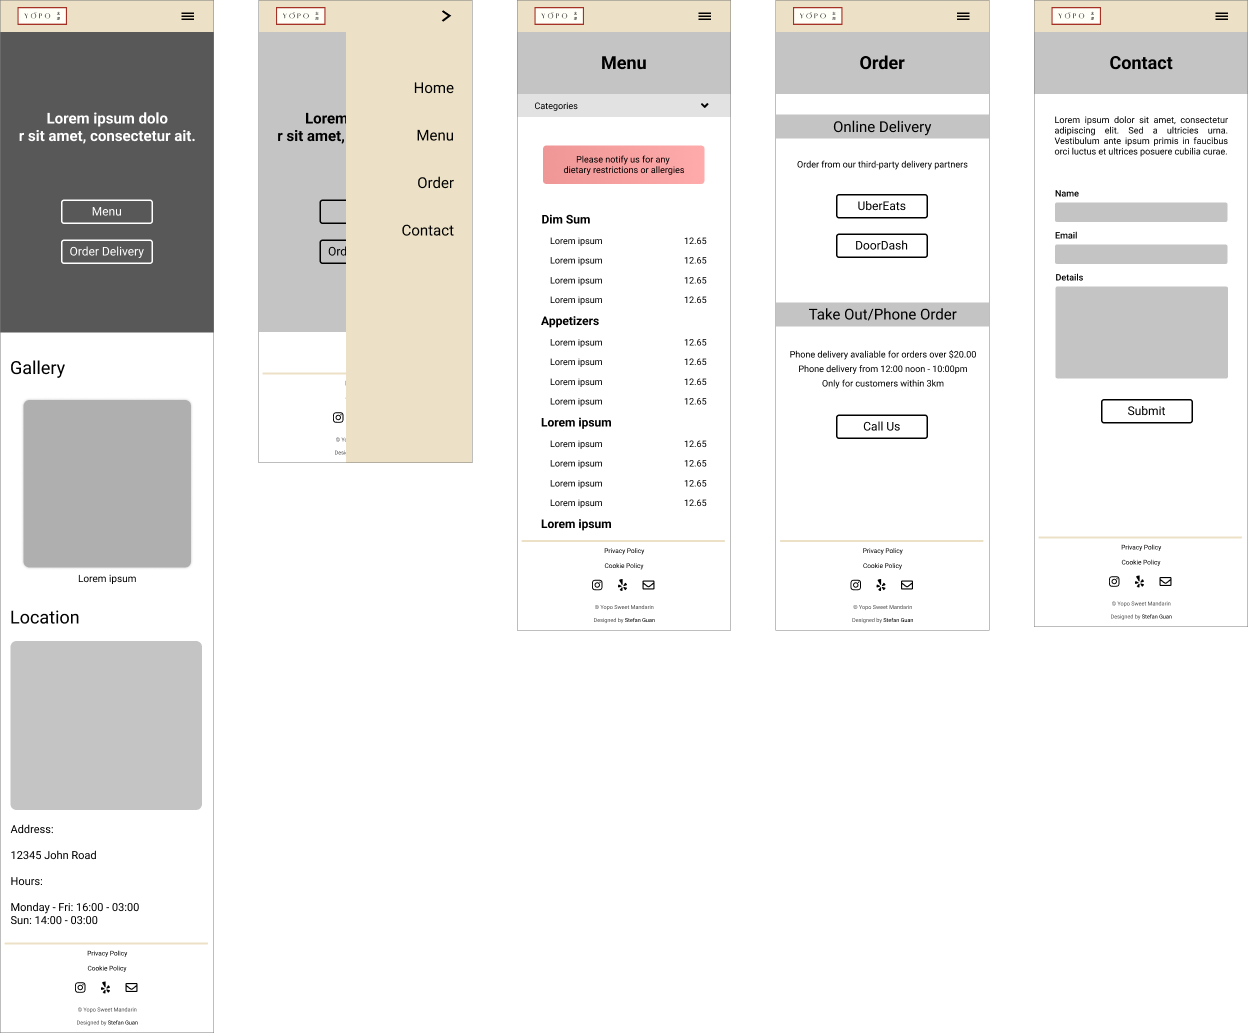
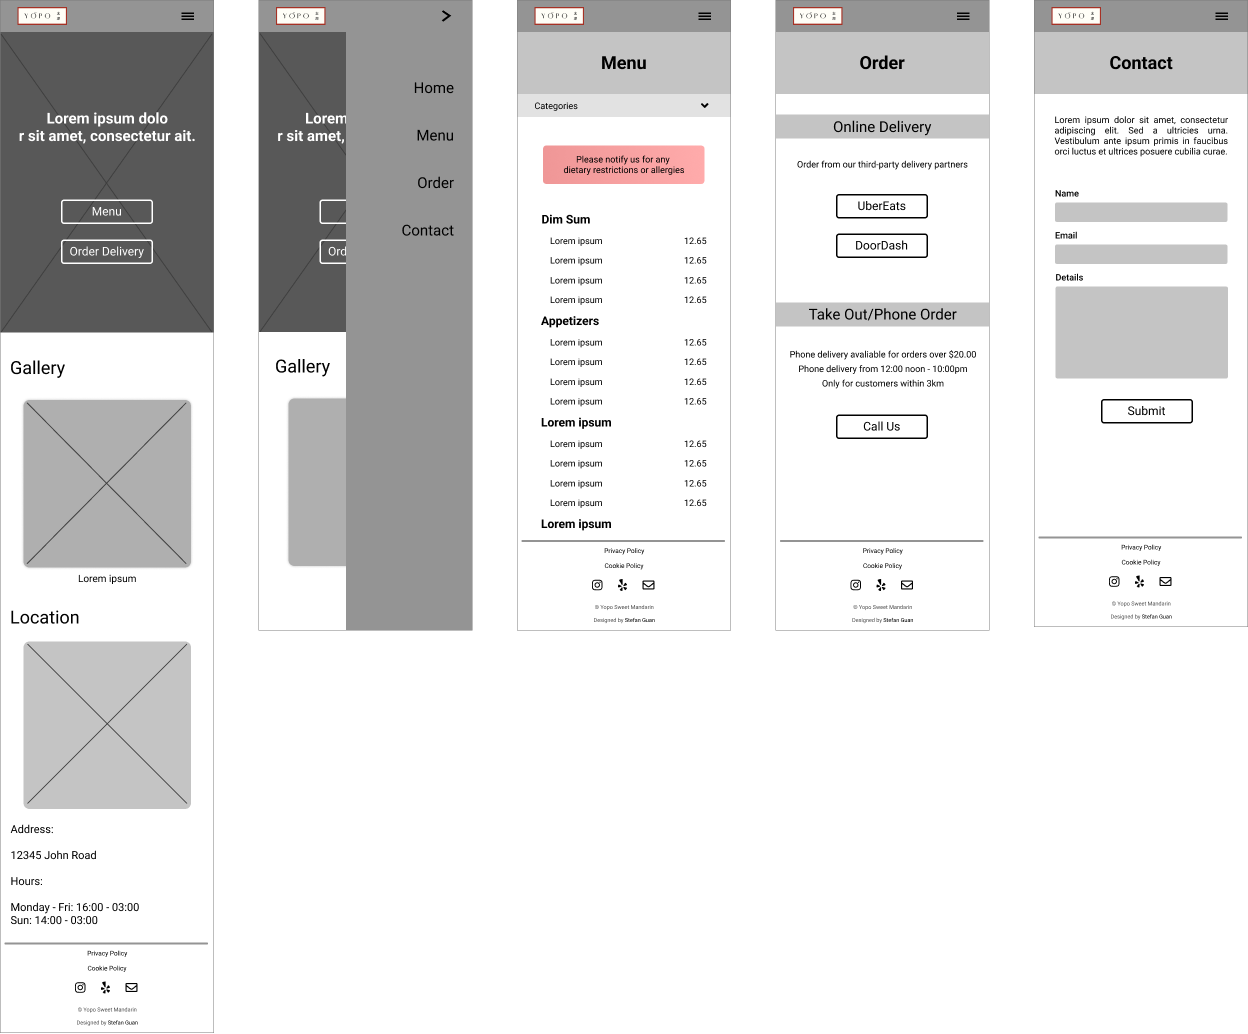
Added new images to yopo.html

diff --git a/yopo.html b/yopo.html
@@ -410,7 +410,9 @@
                 </p>
               </div>
               <p>
-                Given the feedback from patrons and knowledge from other restaurants' sites, I drafted up a design in Figma. I then sent the prototype to the owners for approval.
+                Given the feedback from patrons and knowledge from other
+                restaurants' sites, I drafted up a design in Figma. I then sent
+                the prototype to the owners for approval.
               </p>
             </div>
             <a
@@ -450,18 +452,28 @@
           <h1 class="section-head">User Testing</h1>
           <div class="detail-wrapper">
             <p>
-              The first order of business is to conduct a usability study with
-              my low-fidelity prototype. I found three critical insights through
-              this process.
+              I gave the prototype to the owner and some of their patrons to
+              test out the new design. They generally liked the visual refresh
+              but found some minor issues. For example, the mobile navigation
+              menu elements were placed too high and the map was too small on
+              the desktop view. Provided with the feedback, I created a
+              high-fidelity prototype.
             </p>
             <!-- <h2>Insights</h2>
             <p>
               These insights were swiftly implemented into the next wireframe
               revision.
             </p> -->
-            <a href="/src/assets/img/munch/wireframe2.png" class="img-wrapper"
+            <a href="/src/assets/img/yopo/hifiMobile.png" class="img-wrapper"
               ><img
-                src="/src/assets/img/munch/wireframe2.png"
+                src="/src/assets/img/yopo/hifiMobile.png"
+                alt="Second wireframe with considerations to the insights"
+                loading="lazy"
+                class="concept-img"
+            /></a>
+            <a href="/src/assets/img/yopo/hifiDesktop.png" class="img-wrapper"
+              ><img
+                src="/src/assets/img/yopo/hifiDesktop.png"
                 alt="Second wireframe with considerations to the insights"
                 loading="lazy"
                 class="concept-img"
@@ -472,19 +484,26 @@
         <section class="final-design">
           <h1 class="section-head">Final Design</h1>
           <div class="detail-wrapper">
-            <a href="/src/assets/img/munch/munchfinal2.jpg" class="img-wrapper"
+            <!-- <a href="/src/assets/img/munch/munchfinal2.jpg" class="img-wrapper"
               ><img
                 class="concept-img"
                 src="/src/assets/img/munch/munchfinal2.jpg"
                 alt="Final design of the app"
-            /></a>
+            /></a> -->
+            <iframe
+              src="https://www.sweetmandarin.ca/index.html"
+              loading="lazy"
+              allowfullscreen="true"
+              width="500px"
+              height="500px"
+              style="border: none"
+            ></iframe>
             <a
               class="figma-btn"
               href="https://www.figma.com/proto/93jQf7rWab3raYiQEC4ODT/Google-UX?page-id=203%3A102&node-id=203%3A103&viewport=-3178%2C11%2C0.86&scaling=scale-down&starting-point-node-id=203%3A103"
             >
               Click to demo interactive prototype
               <svg xmlns="http://www.w3.org/2000/svg" viewBox="0 0 384 512">
-                <!--! Font Awesome Pro 6.2.1 by @fontawesome - https://fontawesome.com License - https://fontawesome.com/license (Commercial License) Copyright 2022 Fonticons, Inc. -->
                 <path
                   d="M14 95.7924C14 42.8877 56.8878 0 109.793 0H274.161C327.066 0 369.954 42.8877 369.954 95.7924C369.954 129.292 352.758 158.776 326.711 175.897C352.758 193.019 369.954 222.502 369.954 256.002C369.954 308.907 327.066 351.795 274.161 351.795H272.081C247.279 351.795 224.678 342.369 207.666 326.904V415.167C207.666 468.777 163.657 512 110.309 512C57.5361 512 14 469.243 14 416.207C14 382.709 31.1945 353.227 57.2392 336.105C31.1945 318.983 14 289.5 14 256.002C14 222.502 31.196 193.019 57.2425 175.897C31.196 158.776 14 129.292 14 95.7924ZM176.288 191.587H109.793C74.2172 191.587 45.3778 220.427 45.3778 256.002C45.3778 291.44 73.9948 320.194 109.381 320.416C109.518 320.415 109.655 320.415 109.793 320.415H176.288V191.587ZM207.666 256.002C207.666 291.577 236.505 320.417 272.081 320.417H274.161C309.737 320.417 338.576 291.577 338.576 256.002C338.576 220.427 309.737 191.587 274.161 191.587H272.081C236.505 191.587 207.666 220.427 207.666 256.002ZM109.793 351.795C109.655 351.795 109.518 351.794 109.381 351.794C73.9948 352.015 45.3778 380.769 45.3778 416.207C45.3778 451.652 74.6025 480.622 110.309 480.622C146.591 480.622 176.288 451.186 176.288 415.167V351.795H109.793ZM109.793 31.3778C74.2172 31.3778 45.3778 60.2173 45.3778 95.7924C45.3778 131.368 74.2172 160.207 109.793 160.207H176.288V31.3778H109.793ZM207.666 160.207H274.161C309.737 160.207 338.576 131.368 338.576 95.7924C338.576 60.2173 309.737 31.3778 274.161 31.3778H207.666V160.207Z"
                 />

diff --git a/src/scripts/scripts.js b/src/scripts/scripts.js
@@ -7,11 +7,17 @@ const footerLine = document.querySelector('.footer-container');
 const linkedinBtn = document.querySelector('.linkedin-btn');
 const githubBtn = document.querySelector('.github-btn');
 
-// window.onload = () => {
-//     setTimeout(() => {
-//         container.setAttribute('data-loaded', 'true')
-//     }, 1000);
-// }
+// Disable then reenable animations on load
+// to prevent unexpected animations
+
+window.onload = () => {
+    navbg.classList.add('disable-anim');
+    navItems.classList.add('disable-anim');
+    setTimeout(() => {
+        navbg.classList.remove('disable-anim');
+        navItems.classList.remove('disable-anim');
+    }, 500);
+}
 
 // 
 // Listen for hover

diff --git a/src/stylesheets/style.css b/src/stylesheets/style.css
@@ -40,6 +40,12 @@ button {
   border-radius: 600px;
 }
 
+.disable-anim {
+  transition: none !important;
+  -webkit-transition: none !important;
+  -moz-transition: none !important;
+}
+
 /* Navbar */
 
 .navbar {

diff --git a/src/stylesheets/index.css b/src/stylesheets/index.css
@@ -178,12 +178,6 @@
   font-size: 28px;
 }
 
-.disable-anim {
-  transition: none;
-  -webkit-transition: none;
-  -moz-transition: none;
-}
-
 .comp-card {
   width: 70%;
   max-width: 400px;

diff --git a/src/scripts/index.js b/src/scripts/index.js
@@ -1,4 +1,3 @@
-
 const work1 = document.getElementById("work-1");
 const work2 = document.getElementById("work-2");
 const work3 = document.getElementById("work-3");
